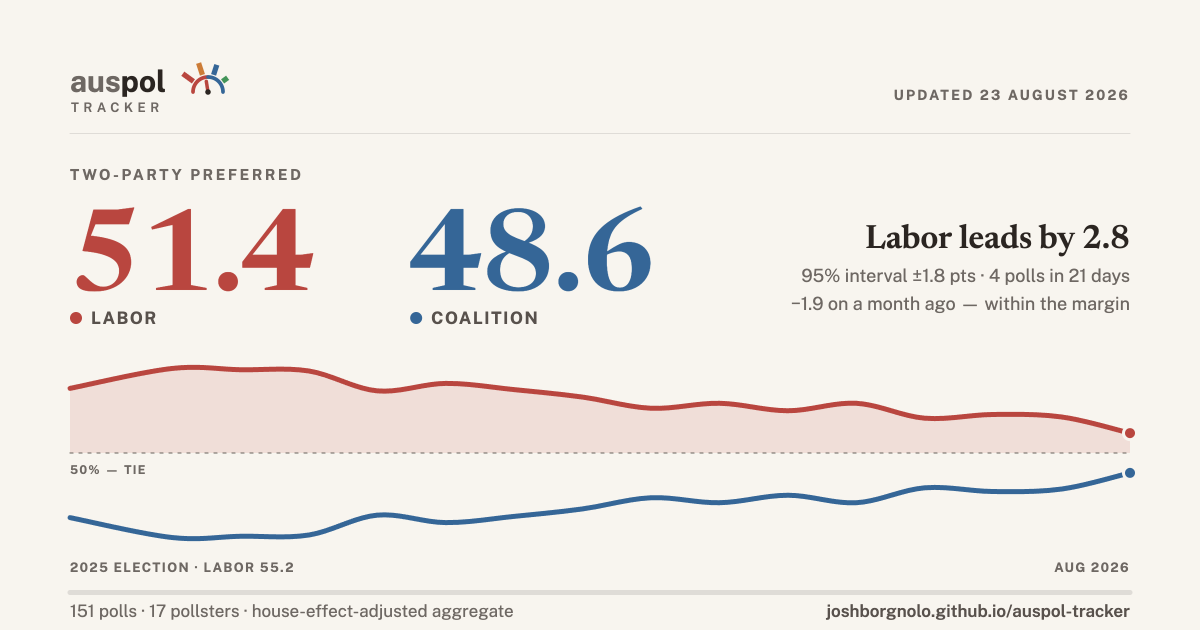
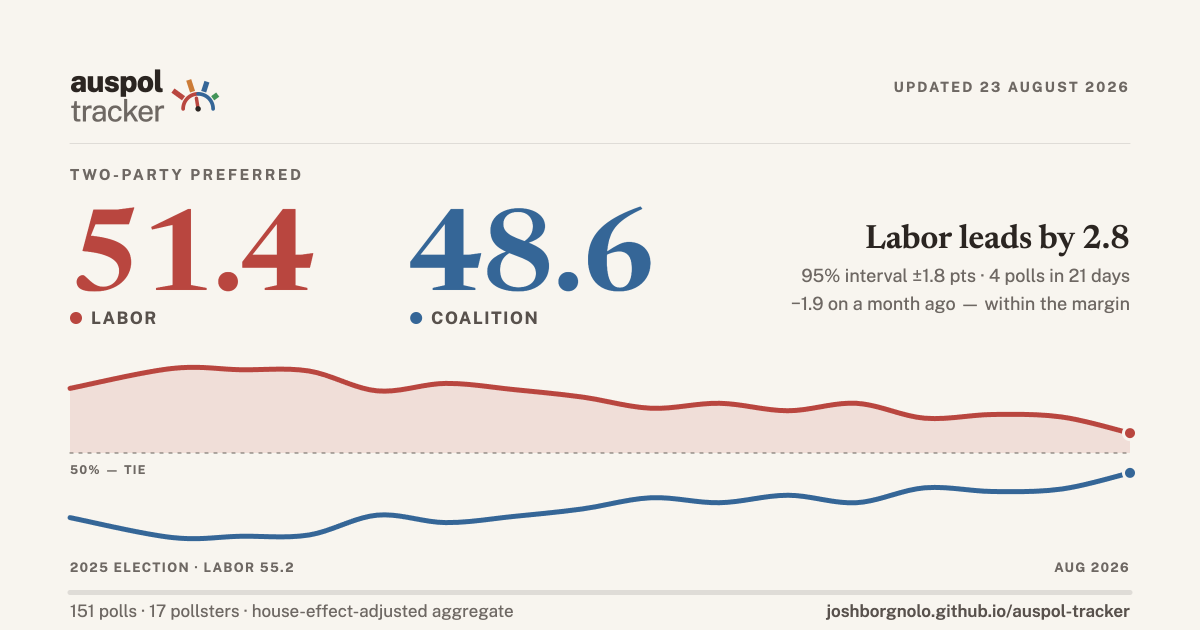
One size for both words, and a left edge they share
The masthead set `auspol` at 30px over `TRACKER` at 12px with 0.46em of
tracking, and that tracking was structural: it existed to stretch seven
small caps out to the 93px the name measures. At that spacing the word
stops reading as a word, and the 0.23em indent it needed to re-centre
pushed the T 2.8px right of the a - so the lockup had no shared left
edge, which is the one edge a reader actually registers.

Both words now sit at 30px and are told apart by weight alone, 800 over
400. Nothing is forced: `auspol` measures 93.6px and `tracker` 95px on
their own, so the block squares itself off without tracking, an indent
or a size step. Weight contrast also survives what the grey/black
aus/pol split did not - small sizes, greyscale, and dark, where --ink-3
on a dark ground reads as switched off rather than as secondary.

The dial's 4px nudge went with it. That offset was compensating for a
block whose ink sat high; against a symmetric two-line block it was
just 4px below centre.

The share card drew its own setting of the same wordmark - 700 weight
over 13px tracked caps - which made it a third version of a mark that
only has one. It now draws from the header's spec, with the date on the
name's baseline instead of floating between the two lines, and the rule
moved down to keep its clearance under the taller block.

Changed region(s): [[0.0617, 0.0905, 0.925, 0.2413], [0.74, 0.1206, 0.9558, 0.181]]

diff --git a/index.html b/index.html
@@ -300,18 +300,25 @@ body {
   overflow: hidden; clip: rect(0 0 0 0); white-space: nowrap; border: 0;
 }
 .wordmark.stacked { flex-direction: row; align-items: center; gap: 7px; }
-.wm-textcol { display: inline-flex; flex-direction: column; align-items: flex-start; gap: 5px; }
+/* Both words at ONE size, told apart by weight alone. At 30px `auspol` at 800
+   measures 93.6px and `tracker` at 400 measures 95px, so the block squares
+   itself off on its own - no tracking, no size step, no indent to force it.
+   The old second line bought that same width with 0.46em of letter-spacing,
+   which is enough air to stop the word reading as a word; and the 0.23em
+   indent it needed to re-centre pushed the T 2.8px right of the a, so the
+   lockup had no shared left edge. Weight contrast also survives what the old
+   grey/black split did not: small sizes, greyscale, and dark, where --ink-3
+   on a dark ground reads as switched off rather than as secondary. */
+.wm-textcol { display: inline-flex; flex-direction: column; align-items: flex-start; gap: 1px; }
 .wm-name {
   display: inline-flex; font-weight: 800; font-size: 30px;
-  letter-spacing: -0.025em; line-height: 1;
+  letter-spacing: -0.025em; line-height: 0.95; color: var(--ink);
 }
-.wm-aus { color: var(--ink-3); }
-.wm-poll { color: var(--ink); }
 .wordmark.stacked .wm-track {
   align-self: flex-start; margin-left: 0; padding-bottom: 0;
-  display: inline-block; text-indent: 0.23em;
-  font-size: 12px; font-weight: 600; letter-spacing: 0.46em;
-  text-transform: uppercase; color: var(--ink-3);
+  display: inline-block; text-indent: 0;
+  font-size: 30px; font-weight: 400; letter-spacing: -0.03em;
+  text-transform: none; line-height: 0.95; color: var(--ink-3);
 }
 .wm-track {
   align-self: flex-end; margin-left: 9px; padding-bottom: 3px;
@@ -322,12 +329,11 @@ body {
    two-tone 2PP swing arc, needle from the shared pivot */
 .wm-glyph {
   display: inline-flex; align-items: center; margin-left: 0; align-self: center;
-  transform: translateY(4px);
   background: none; border: 0; padding: 3px; margin: -3px; cursor: pointer;
   border-radius: 8px; transition: transform .28s cubic-bezier(.3,1.2,.5,1), background-color .2s ease;
 }
-.wm-glyph:hover { background: color-mix(in oklch, var(--ink) 6%, transparent); transform: translateY(4px) scale(1.06); }
-.wm-glyph:active { transform: translateY(4px) scale(0.97); }
+.wm-glyph:hover { background: color-mix(in oklch, var(--ink) 6%, transparent); transform: scale(1.06); }
+.wm-glyph:active { transform: scale(0.97); }
 .wm-glyph:focus-visible { outline: 2px solid var(--accent, var(--ink-3)); outline-offset: 2px; }
 
 /* ---------- the dial, wound back ---------- */
@@ -456,7 +462,7 @@ body {
 }
 @media (prefers-reduced-motion: reduce) {
   .dl-backdrop { animation: none; }
-  .wm-glyph, .wm-glyph:hover, .wm-glyph:active { transition: none; transform: translateY(4px); }
+  .wm-glyph, .wm-glyph:hover, .wm-glyph:active { transition: none; transform: none; }
 }
 .wordmark.stacked .wm-glyph { align-self: center; }
 .wm-dial { display: block; overflow: visible; }
@@ -11008,11 +11014,7 @@ function Header({
     className: "wm-textcol"
   }, /*#__PURE__*/React.createElement("span", {
     className: "wm-name"
-  }, /*#__PURE__*/React.createElement("span", {
-    className: "wm-aus"
-  }, "aus"), /*#__PURE__*/React.createElement("span", {
-    className: "wm-poll"
-  }, "pol")), /*#__PURE__*/React.createElement("span", {
+  }, "auspol"), /*#__PURE__*/React.createElement("span", {
     className: "wm-track"
   }, "tracker")), /*#__PURE__*/React.createElement("button", {
     className: "wm-glyph",

diff --git a/.build/newtracker/template.html b/.build/newtracker/template.html
@@ -453,18 +453,25 @@ body {
   overflow: hidden; clip: rect(0 0 0 0); white-space: nowrap; border: 0;
 }
 .wordmark.stacked { flex-direction: row; align-items: center; gap: 7px; }
-.wm-textcol { display: inline-flex; flex-direction: column; align-items: flex-start; gap: 5px; }
+/* Both words at ONE size, told apart by weight alone. At 30px `auspol` at 800
+   measures 93.6px and `tracker` at 400 measures 95px, so the block squares
+   itself off on its own - no tracking, no size step, no indent to force it.
+   The old second line bought that same width with 0.46em of letter-spacing,
+   which is enough air to stop the word reading as a word; and the 0.23em
+   indent it needed to re-centre pushed the T 2.8px right of the a, so the
+   lockup had no shared left edge. Weight contrast also survives what the old
+   grey/black split did not: small sizes, greyscale, and dark, where --ink-3
+   on a dark ground reads as switched off rather than as secondary. */
+.wm-textcol { display: inline-flex; flex-direction: column; align-items: flex-start; gap: 1px; }
 .wm-name {
   display: inline-flex; font-weight: 800; font-size: 30px;
-  letter-spacing: -0.025em; line-height: 1;
+  letter-spacing: -0.025em; line-height: 0.95; color: var(--ink);
 }
-.wm-aus { color: var(--ink-3); }
-.wm-poll { color: var(--ink); }
 .wordmark.stacked .wm-track {
   align-self: flex-start; margin-left: 0; padding-bottom: 0;
-  display: inline-block; text-indent: 0.23em;
-  font-size: 12px; font-weight: 600; letter-spacing: 0.46em;
-  text-transform: uppercase; color: var(--ink-3);
+  display: inline-block; text-indent: 0;
+  font-size: 30px; font-weight: 400; letter-spacing: -0.03em;
+  text-transform: none; line-height: 0.95; color: var(--ink-3);
 }
 .wm-track {
   align-self: flex-end; margin-left: 9px; padding-bottom: 3px;
@@ -475,12 +482,11 @@ body {
    two-tone 2PP swing arc, needle from the shared pivot */
 .wm-glyph {
   display: inline-flex; align-items: center; margin-left: 0; align-self: center;
-  transform: translateY(4px);
   background: none; border: 0; padding: 3px; margin: -3px; cursor: pointer;
   border-radius: 8px; transition: transform .28s cubic-bezier(.3,1.2,.5,1), background-color .2s ease;
 }
-.wm-glyph:hover { background: color-mix(in oklch, var(--ink) 6%, transparent); transform: translateY(4px) scale(1.06); }
-.wm-glyph:active { transform: translateY(4px) scale(0.97); }
+.wm-glyph:hover { background: color-mix(in oklch, var(--ink) 6%, transparent); transform: scale(1.06); }
+.wm-glyph:active { transform: scale(0.97); }
 .wm-glyph:focus-visible { outline: 2px solid var(--accent, var(--ink-3)); outline-offset: 2px; }
 
 /* ---------- the dial, wound back ---------- */
@@ -609,7 +615,7 @@ body {
 }
 @media (prefers-reduced-motion: reduce) {
   .dl-backdrop { animation: none; }
-  .wm-glyph, .wm-glyph:hover, .wm-glyph:active { transition: none; transform: translateY(4px); }
+  .wm-glyph, .wm-glyph:hover, .wm-glyph:active { transition: none; transform: none; }
 }
 .wordmark.stacked .wm-glyph { align-self: center; }
 .wm-dial { display: block; overflow: visible; }

diff --git a/.build/newtracker/make-card.js b/.build/newtracker/make-card.js
@@ -65,10 +65,21 @@
   };
 
   /* ---- masthead --------------------------------------------------------- */
-  c.font = '700 30px "Public Sans", sans-serif';
-  c.fillStyle = T.ink3; c.fillText("aus", PAD, 92); const wA = c.measureText("aus").width;
-  c.fillStyle = T.ink;  c.fillText("pol", PAD + wA, 92); const wP = c.measureText("pol").width;
-  caps("TRACKER", PAD + 1, 112, 13, 4.5, T.ink3, 600);
+  /* One lockup, drawn from the site's spec - see .wm-name / .wm-track in
+     template.html: both words at 30px, told apart by weight alone. The card
+     used to set its own, 700 weight over 13px tracked caps, which made it a
+     third version of a wordmark that only has one. The offsets are the
+     header's own, read off the rendered lockup: the second baseline sits
+     29.5px under the first, and the dial's arc centre 34px right of the text
+     block and 16.85px under the first baseline. */
+  const BL1 = 92, BL2 = BL1 + 29.5;
+  c.font = '800 30px "Public Sans", sans-serif'; c.letterSpacing = "-0.75px";
+  c.fillStyle = T.ink; c.fillText("auspol", PAD, BL1);
+  const wN = c.measureText("auspol").width;
+  c.font = '400 30px "Public Sans", sans-serif'; c.letterSpacing = "-0.9px";
+  c.fillStyle = T.ink3; c.fillText("tracker", PAD, BL2);
+  const wMark = Math.max(wN, c.measureText("tracker").width);
+  c.letterSpacing = "0px";
 
   /* the masthead dial, same geometry and same data as the favicon in build.mjs:
      graduation bars are the latest primary aggregate sorted tallest first, the
@@ -96,13 +107,14 @@
     c.strokeStyle = m >= 0 ? T.alp : T.lnp; c.lineWidth = 2.8 * k;
     c.lineCap = "round"; c.stroke();
     c.beginPath(); c.arc(cx, cy, 2.2 * k, 0, 7); c.fillStyle = T.ink; c.fill();
-  })(PAD + wA + wP + 42, 92, 1.25);
+  })(PAD + wMark + 34, BL1 + 16.85, 1.25);
 
+  // on the name's baseline, not floating between the two lines
   c.textAlign = "right";
-  caps("UPDATED " + L.updated.toUpperCase(), W - PAD, 100, 14, 2.2, T.ink3, 700);
+  caps("UPDATED " + L.updated.toUpperCase(), W - PAD, BL1, 14, 2.2, T.ink3, 700);
   c.textAlign = "left";
   c.strokeStyle = T.line; c.lineWidth = 1;
-  c.beginPath(); c.moveTo(PAD, 133.5); c.lineTo(W - PAD, 133.5); c.stroke();
+  c.beginPath(); c.moveTo(PAD, 143.5); c.lineTo(W - PAD, 143.5); c.stroke();
 
   /* ---- the figures ------------------------------------------------------ */
   caps("TWO-PARTY PREFERRED", PAD, 180, 15, 2.6, T.ink3, 700);

diff --git a/.build/newtracker/assets/73de0c58-f11f-4793-9f90-77e583ab051b.js b/.build/newtracker/assets/73de0c58-f11f-4793-9f90-77e583ab051b.js
@@ -103,7 +103,7 @@ function Header({ isDark, onToggleTheme }) {
       <div className="brand">
         <h1 className="wordmark stacked">
           <span className="wm-textcol">
-            <span className="wm-name"><span className="wm-aus">aus</span><span className="wm-poll">pol</span></span>
+            <span className="wm-name">auspol</span>
             <span className="wm-track">tracker</span>
           </span>
           <button className="wm-glyph" ref={glyphRef} onClick={openStory}
